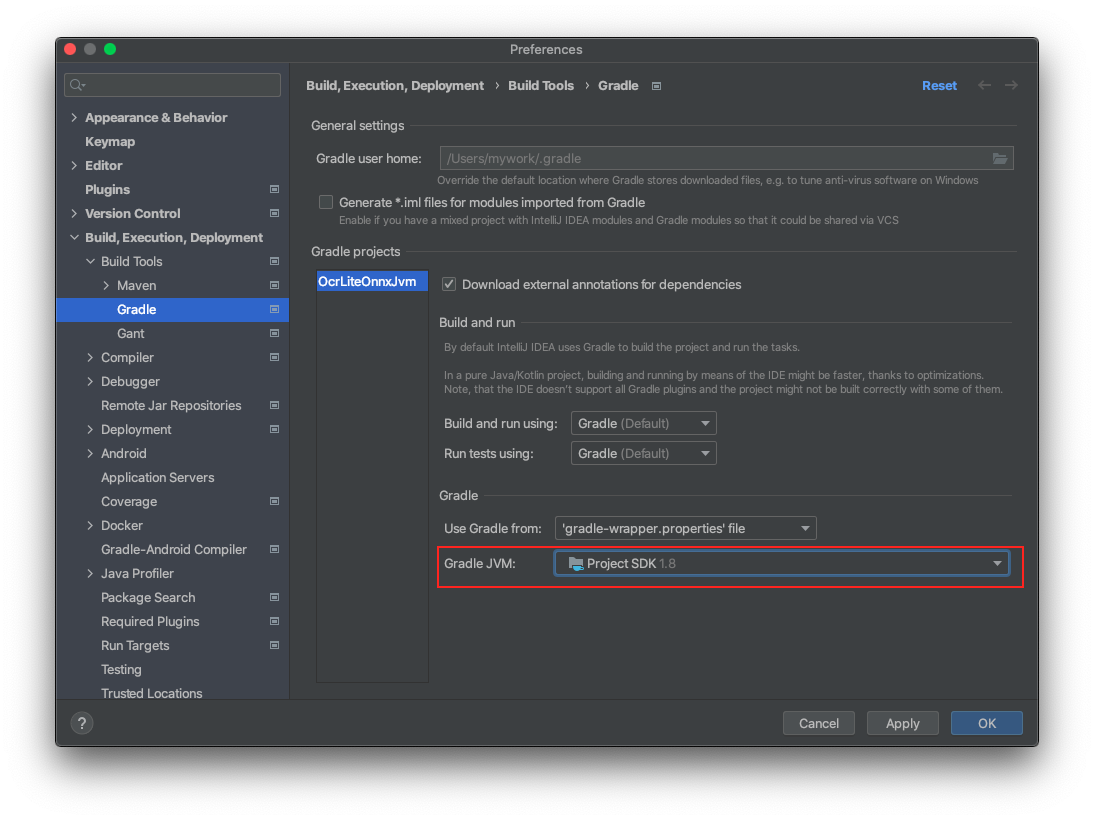
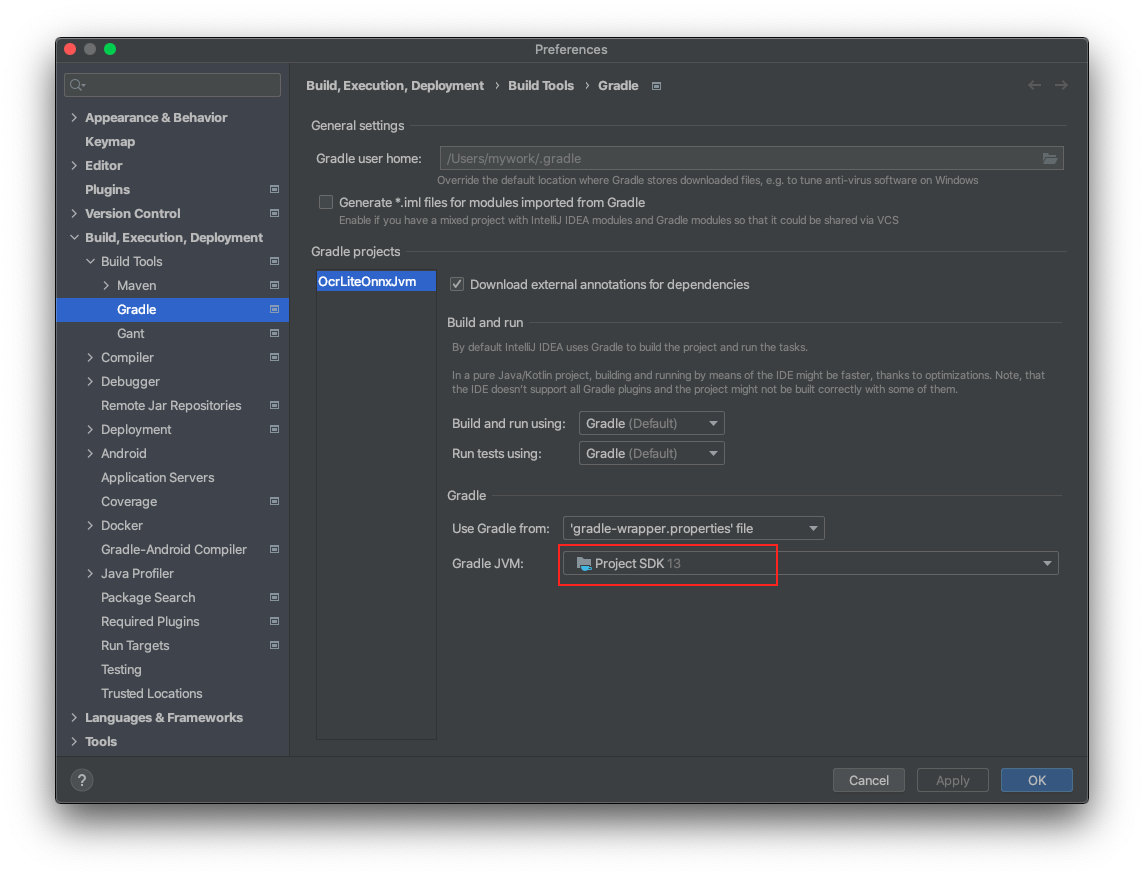
Edit README.md

Changed region(s): [[0.0311, 0.0305, 0.9634, 0.9146], [0.8391, 0.0915, 0.8702, 0.122]]

diff --git a/README.md b/README.md
@@ -2,7 +2,8 @@
 
 ### Project下载
 
-* 有整合好源码和依赖库的完整工程项目，文件比较大，可到Q群共享内下载，找以Project开头的压缩包文件
+* 整合好源码和依赖库的完整工程项目，可在Release中下载(github)
+* 可到Q群共享内下载，找Project_OcrLiteOnnxJvm压缩包文件
 * 如果想自己折腾，则请继续阅读本说明
 
 ### Demo下载(win、mac、linux)
@@ -21,10 +22,7 @@
 
 ### 调试&编译说明
 
-1.
-
-开始JVM部分编译之前，请先完成编译OcrLiteOnnx动态运行库，参考[此页面](https://github.com/ouyanghuiyu/chineseocr_lite/tree/onnx/pc_projects/OcrLiteOnnx)的编译说明。
-
+1. 开始JVM部分编译之前，请先完成编译OcrLiteOnnx动态运行库，参考[此页面](https://github.com/ouyanghuiyu/chineseocr_lite/tree/onnx/pc_projects/OcrLiteOnnx)的编译说明。
 2. 把预先编译好的动态运行库复制到run-test文件夹，根据您选择的编译类型，macOS、linux可能还需要额外配置动态库的搜索路径
 3. 从第1步的说明中找到模型下载地址，放到run-test/models文件夹，测试的目标图片放到run-test/images文件夹
 4. 用IDEA打开本项目
@@ -33,7 +31,7 @@
 
 * 编辑运行参数：顶部工具栏“运行”图标左边，点开下拉菜单“Edit Configurations”
 * VM options:添加```-Djava.library.path=run-test```，把run-test文件夹加到java的lib搜索路径
-* Program arguments:添加``run-test/models dbnet.onnx angle_net.onnx crnn_lite_lstm.onnx keys.txt run-test/images/1.jpg```
+* Program arguments:添加``run-test/models dbnet.onnx angle_net.onnx crnn_lite_lstm.onnx keys.txt run-test/test_imgs/1.jpg```
   ，添加命令行输入参数
 * 命令行参数models文件夹里必须有相应的模型文件，接下来的四个文件名对应模型文件夹里的3个模型(含扩展名)和1个keys文件，请确认文件名无误
 * run-test/images/1.jpg是待识别的目标图片
@@ -46,12 +44,14 @@
 * 编辑Name:OcrLiteOnnxJvm，下面列表左边的名称也会对应改为“OcrLiteOnnxJvm.jar”，这是最终输出的文件名
 * 选中左边列表的“OcrLiteOnnxJvm.jar”，底部出现两个按钮，选择“Use Existing Manifest...”，选择src/main/resources/META-INF/MANIFEST.MF
 * 展开右边列表，找到OcrLiteOnnxJvm/main/“OcrLiteOnnxJvm.main compile output”，右键“Put into Output Root”
-* 选中右边列表的三个Gradle依赖包，分别是“kotlin-stdlib-common:1.3.72”/“kotlin-stdlib-1.3.72”/“annotations:13.0”，右键“Extract Into Output
+* 选中右边列表的几个Gradle依赖包，“kotlin-stdlib-xxx:版本”/“annotations:版本”，右键“Extract Into Output
   Root”
 * 按“OK”关闭项目设置窗口
 * 打开菜单栏Build->Build Artifacts，找到刚才的配置，并选Build
 * 找到out/artifacts/OcrLiteOnnxJvm/OcrLiteOnnxJvm.jar，并复制到run-test文件夹
 * 测试jar包是否正确编译：顶部Demo下载解压，把编译出来的jar包复制替换进去，然后使用run-test脚本测试。
+
+  ![avatar](capture/Artifacts.png)
 
 ### 其它问题
 
@@ -67,9 +67,11 @@ Error: A JNI error has occurred, please check your installation and try again
 Exception in thread "main" java.lang.UnsupportedClassVersionError: com/benjaminwan/ocr/Main has been compiled by a more recent version of the Java Runtime (class file version 55.0), this version of the Java Runtime only recognizes class file versions up to 52.0
 ```
 
-* 配置JAVA Runtime版本：调试运行按钮旁边-> Edit Configurations-> Build And Run-> 选择合适的版本，最好跟下面的版本一致
+* 配置Project-> ProjectSDK: 选择合适的版本，最好跟以下的选项一致
+* 配置JAVA Runtime版本：调试运行按钮旁边-> Edit Configurations-> Build And Run-> 选择合适的版本
 * 修改Preferences-> Build,Execution,Deployment-> Gradle-> Gradle JVM:选择合适的版本(跟运行时JAVA版本相关)
-* 如图所示
+  ![avatar](capture/ProjectStructure.png)
+  ![avatar](capture/RunConfigrationJvm.png)
   ![avatar](capture/GradleJvm.png)
 
 ## 示例图
